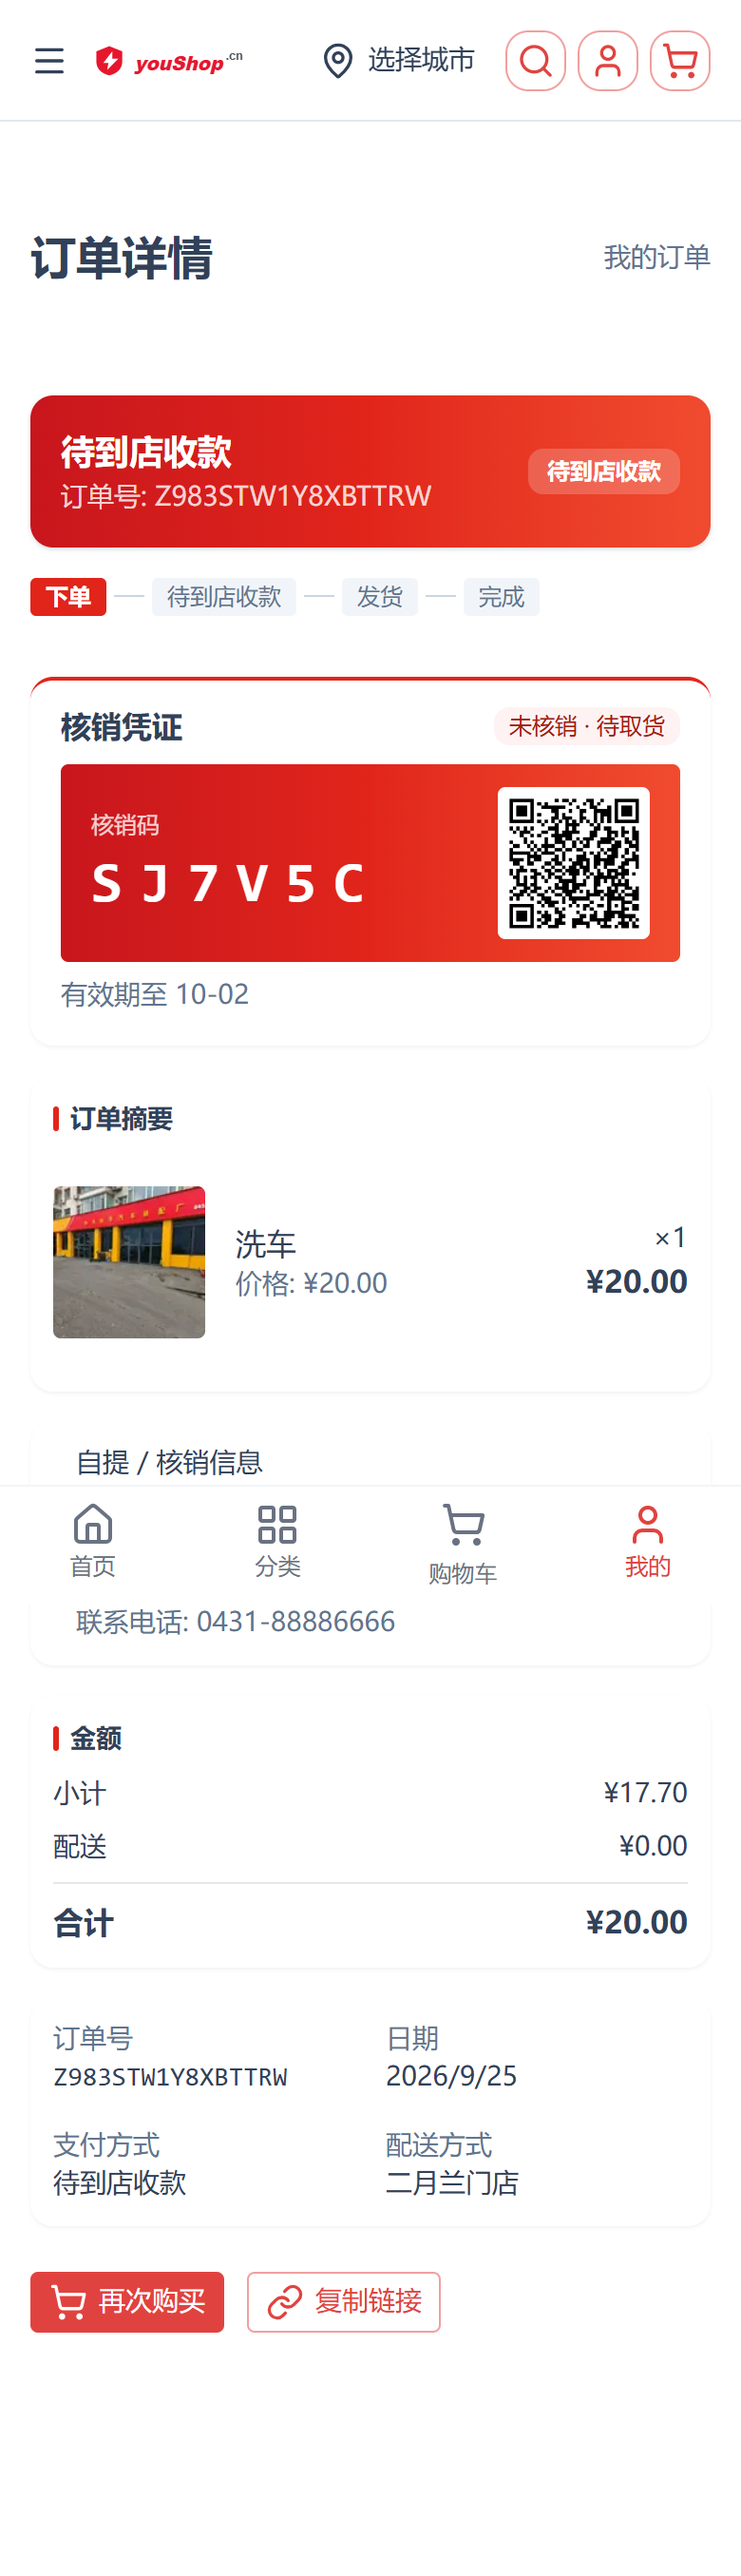
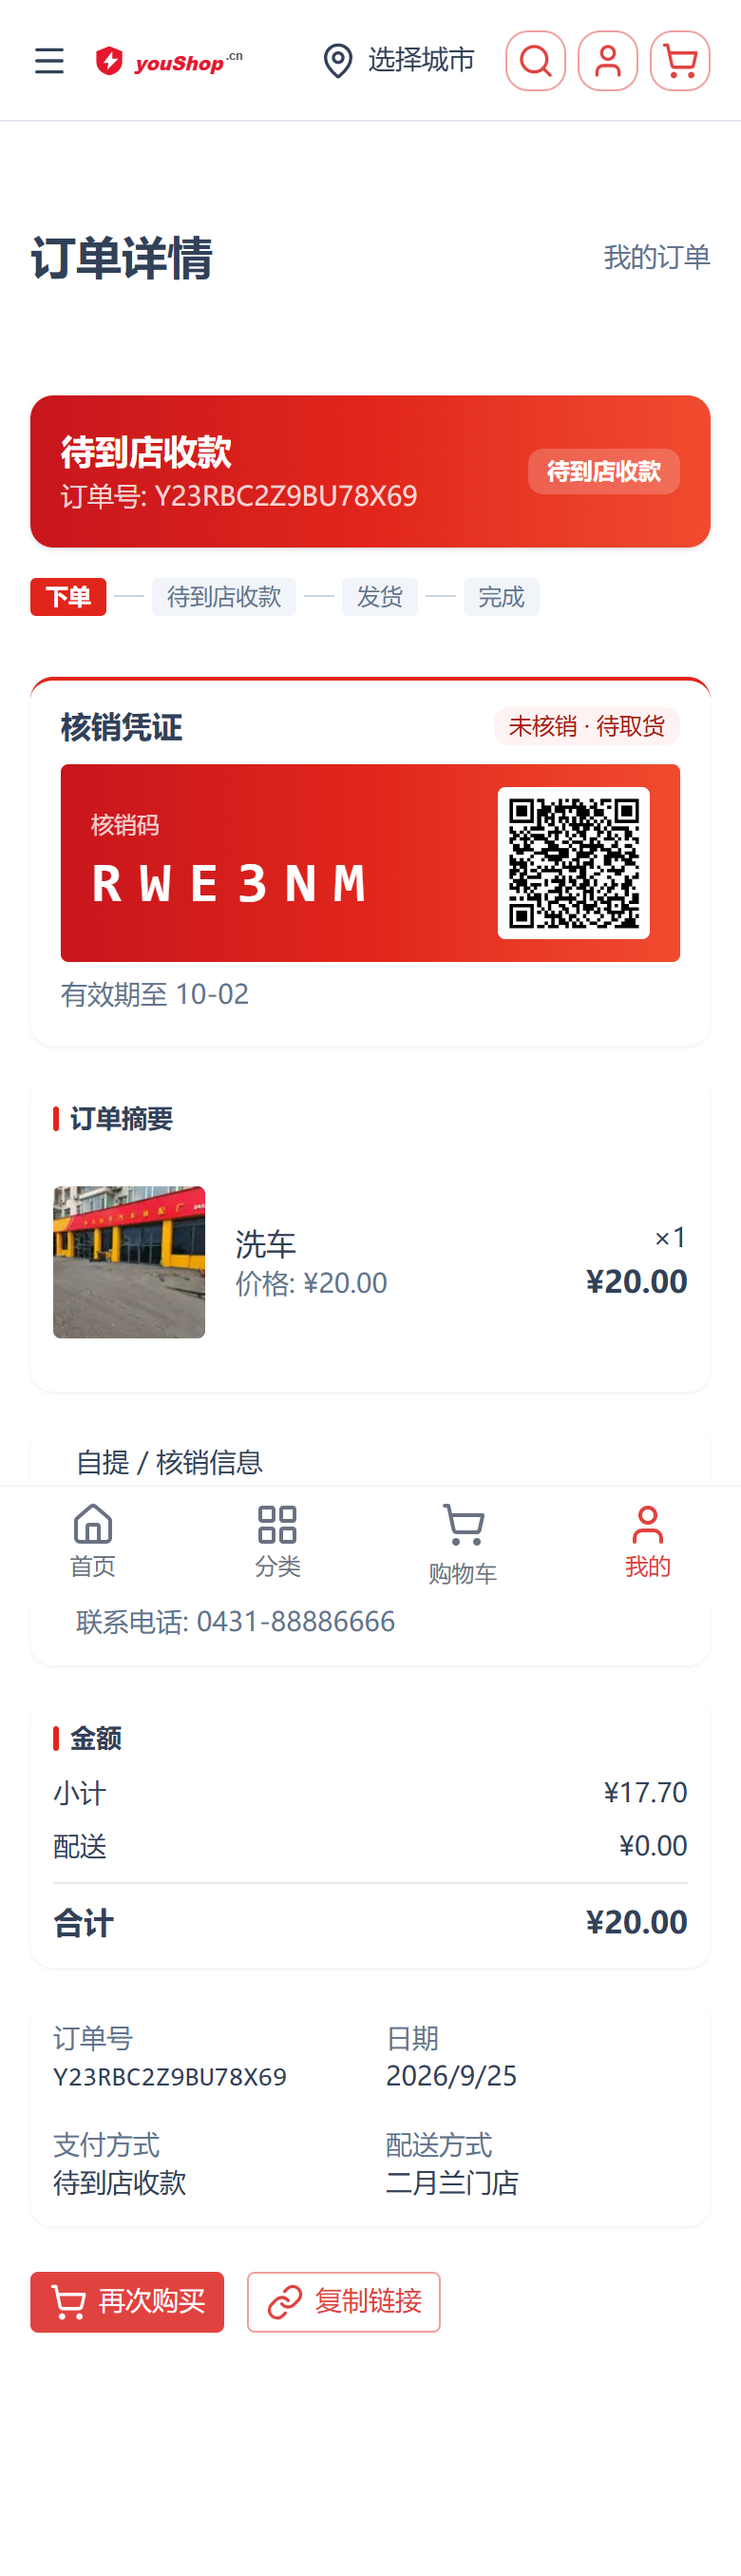
docs(order): 手册补线上部署与回归（订单列表/详情深链线上截图）
新增 §6.2：记录 deploy.mjs 部署方式（本地构建 → scp → pm2 restart），
并把线上回归的两张手机截图（列表不再卡「请稍候」、详情深链 SSR 200 含核销码）
补进手册；深链截图换为线上实拍，探针支持 SHOT_BASE 指向线上。

diff --git a/docs/superpowers/manual/orders-multi-layout/README.md b/docs/superpowers/manual/orders-multi-layout/README.md
@@ -172,9 +172,7 @@ SSR 阶段本来就能读到请求头里的 cookie —— 页面 `middleware/acc
 
 修法：去掉那个 `import.meta.client` 限制，SSR 同样从 authStore 取 token（try/catch 兜底，取不到即等同游客，行为不变）。
 
-回归（`scripts/_shot_order_deeplink.py`，390×844 / dpr2 手机视口）：
-
-![order-detail-deeplink](./shots/order-detail-deeplink.png)
+回归（`scripts/_shot_order_deeplink.py`，390×844 / dpr2 手机视口；线上部署后的实拍见 §6.2.2）：
 
 | 断言 | 修复前 | 修复后 |
 |---|---|---|
@@ -185,6 +183,45 @@ SSR 阶段本来就能读到请求头里的 cookie —— 页面 `middleware/acc
 > 判据说明：`核销码` 这个 label 只在客户端 `OrderRedemptionCode` 取码返回后才渲染，
 > SSR 里能看到的是核销卡标题「核销凭证」。故深链的 SSR 判据用「订单详情 + 核销凭证 + payload 含 pickup」，
 > **不要用「核销码」**；而截图（走完整客户端流程）里应当能看到真实码值。
+
+## 6.2 线上部署与回归（2026-09-25）
+
+部署走 [scripts/deploy.mjs](../../../../scripts/deploy.mjs)（**本地构建 → scp `.output/` → 服务器解压/拷入 → `pm2 restart`**，服务器不构建、不装依赖）：
+
+```powershell
+cd d:\zhao\nshop
+node scripts/deploy.mjs
+# 读 .env 部署段：SERVER_HOST=joho、REMOTE_DIR=<openresty 站点目录>、SITE_PORT=3000、APP_NAME=nshop
+```
+
+部署对象 = 本地 HEAD（工作区干净，产物与提交一致），`nshop` 进程 `pm2 restart` 后 online；站点 `https://www.youshop.cn`。
+
+### 6.2.1 线上订单列表（默认 `card` 版式）
+
+![order-list-prod](./shots/order-list-prod.png)
+
+断言（登录态，390×844 / dpr2）：出现 tab 栏（全部/待支付/待发货/待收货/已完成/已取消）与订单行（「自提 / 核销信息 · 洗车 ×1 ¥20.00 · 待发货」），**不再停在「请稍候…」**（修复前恒卡加载态，见 §6 落地坑）。
+
+### 6.2.2 线上订单详情深链 / 硬刷新（自提单，含核销码）
+
+![order-detail-deeplink](./shots/order-detail-deeplink.png)
+
+| 断言 | 线上结果 |
+|---|---|
+| 纯 SSR HTML（不跑 JS、带 cookie）`status` | 200 |
+| SSR HTML 含订单号 /「订单详情」/「核销凭证」 | 是（单号出现 34 次） |
+| SSR `__NUXT_DATA__` 含真实自提字段（`"pickup"`） | 是 |
+| SSR HTML 含「未找到订单」 | 否 |
+| 真机路径（硬打开 / 硬刷新）含核销码且无「未找到订单」 | 是 / 无 |
+
+线上回归探针用法（`scripts/_shot_order_deeplink.py` 支持用环境变量把探针指向线上，**不必起本地反代**；默认仍指向本地 `localhost:8080`）：
+
+```powershell
+$env:SHOT_BASE="https://www.youshop.cn"; $env:SHOT_OUT="d:\zhao\nshop\scripts\shots"
+python scripts\_shot_order_deeplink.py
+```
+
+> 线上首屏较慢，探针必须先等 Nuxt hydration 完成再点登录，否则表单会走**原生 GET 提交**（凭据落到 query string、登录不生效）；脚本已内置该等待与重试。
 
 ## 7. 文件索引
 
